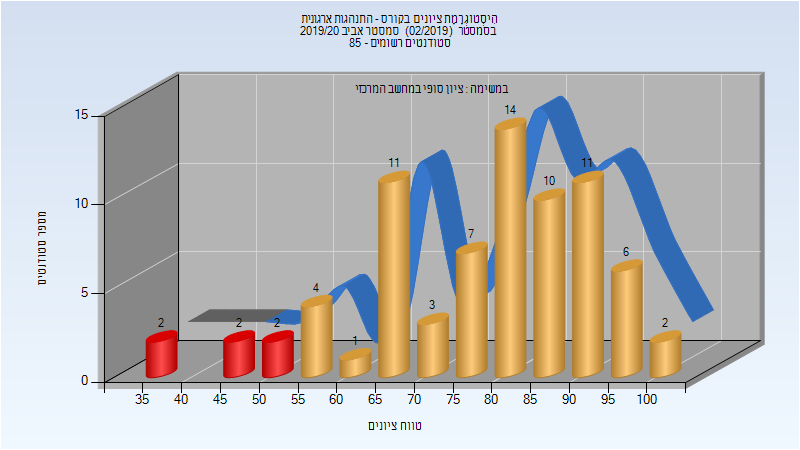
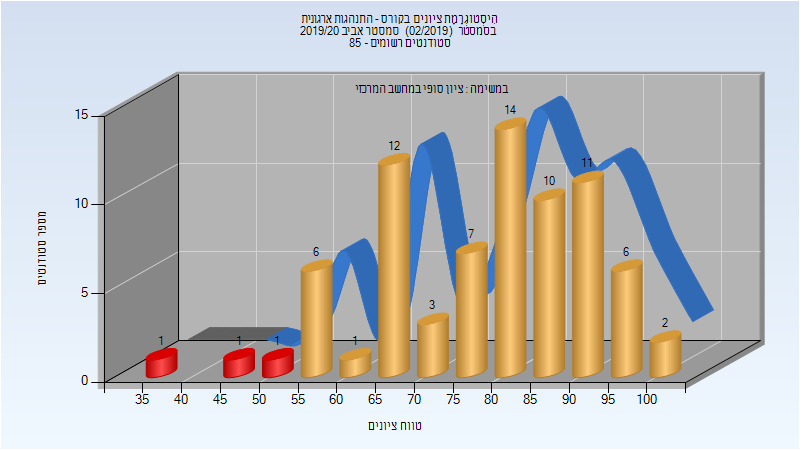
Deploy michael-maltsev/technion-histograms to github.com/michael-maltsev/technion-histograms.git:gh-pages

diff --git a/094139/index.html b/094139/index.html
@@ -608,13 +608,13 @@
 </thead>
 <tbody>
 <tr>
-<td>69</td>
-<td>62/7</td>
-<td>90</td>
-<td>20</td>
+<td>80</td>
+<td>73/7</td>
+<td>91</td>
+<td>25</td>
 <td>95</td>
-<td>72.768</td>
-<td>75</td>
+<td>73.562</td>
+<td>76</td>
 </tr>
 </tbody>
 </table>

diff --git a/096600/index.html b/096600/index.html
@@ -460,11 +460,11 @@
 <tbody>
 <tr>
 <td>75</td>
-<td>69/6</td>
-<td>92</td>
+<td>72/3</td>
+<td>96</td>
 <td>38</td>
 <td>100</td>
-<td>77.347</td>
+<td>77.853</td>
 <td>80</td>
 </tr>
 </tbody>

diff --git a/096620/index.html b/096620/index.html
@@ -422,7 +422,7 @@
 <td>100</td>
 <td>58</td>
 <td>100</td>
-<td>83.605</td>
+<td>83.658</td>
 <td>83.5</td>
 </tr>
 </tbody>

diff --git a/096620/README.md b/096620/README.md
@@ -125,5 +125,5 @@
 
 | סטודנטים | עברו/נכשלו | אחוז עוברים | ציון מינימלי | ציון מקסימלי | ממוצע | חציון |
 | ---- | ---- | ---- | ---- | ---- | ---- | ---- |
-| 38 | 38/0 | 100 | 58 | 100 | 83.605 | 83.5 |
+| 38 | 38/0 | 100 | 58 | 100 | 83.658 | 83.5 |
 

diff --git a/096600/README.md b/096600/README.md
@@ -137,5 +137,5 @@
 
 | סטודנטים | עברו/נכשלו | אחוז עוברים | ציון מינימלי | ציון מקסימלי | ממוצע | חציון |
 | ---- | ---- | ---- | ---- | ---- | ---- | ---- |
-| 75 | 69/6 | 92 | 38 | 100 | 77.347 | 80 |
+| 75 | 72/3 | 96 | 38 | 100 | 77.853 | 80 |
 

diff --git a/094139/README.md b/094139/README.md
@@ -187,5 +187,5 @@
 
 | סטודנטים | עברו/נכשלו | אחוז עוברים | ציון מינימלי | ציון מקסימלי | ממוצע | חציון |
 | ---- | ---- | ---- | ---- | ---- | ---- | ---- |
-| 69 | 62/7 | 90 | 20 | 95 | 72.768 | 75 |
+| 80 | 73/7 | 91 | 25 | 95 | 73.562 | 76 |
 
